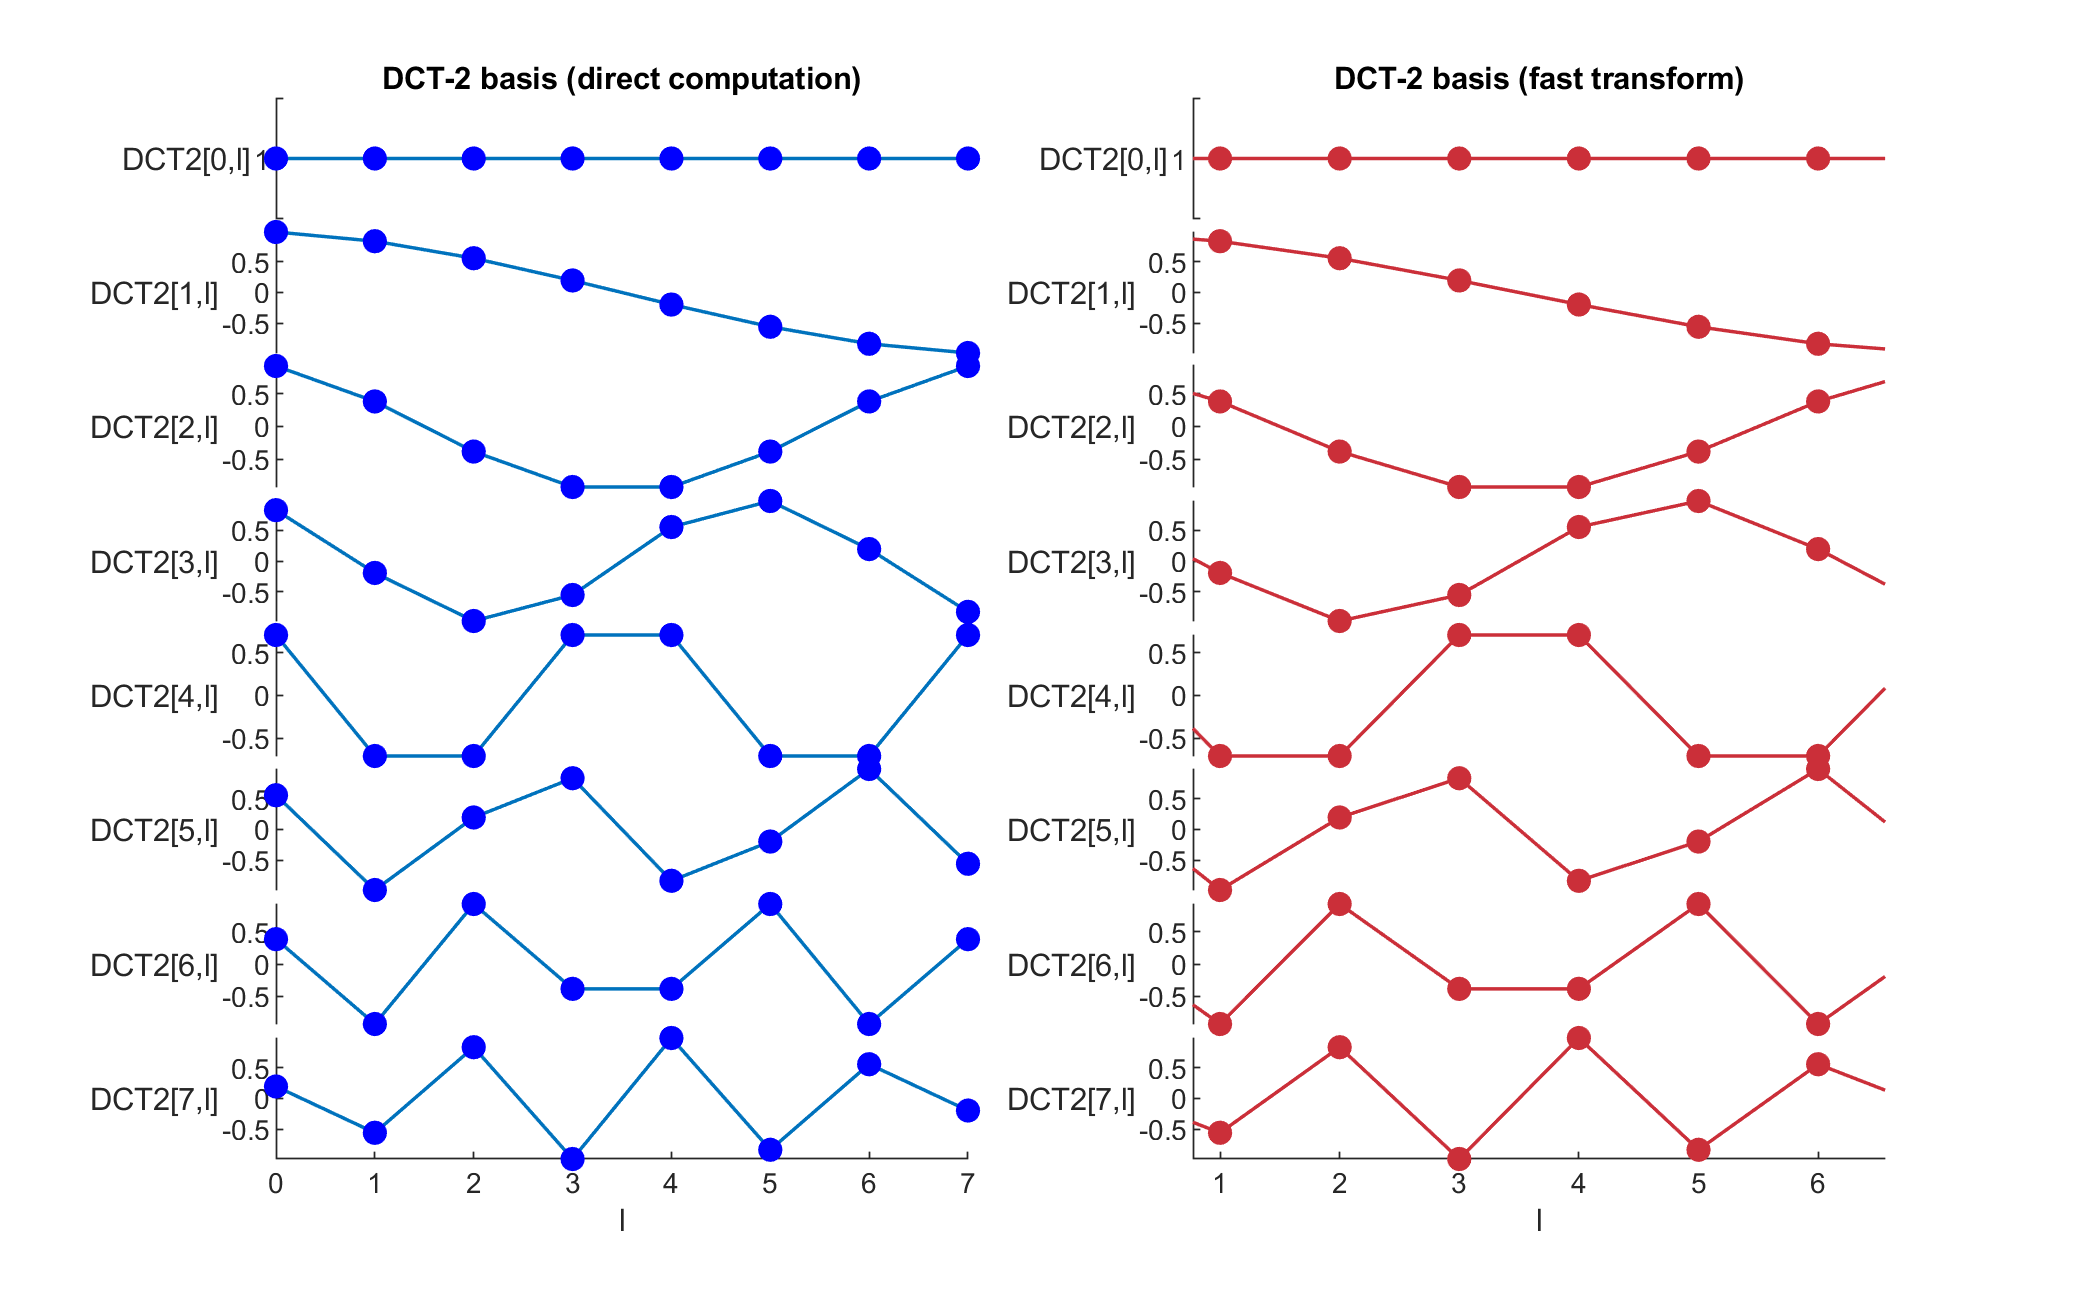
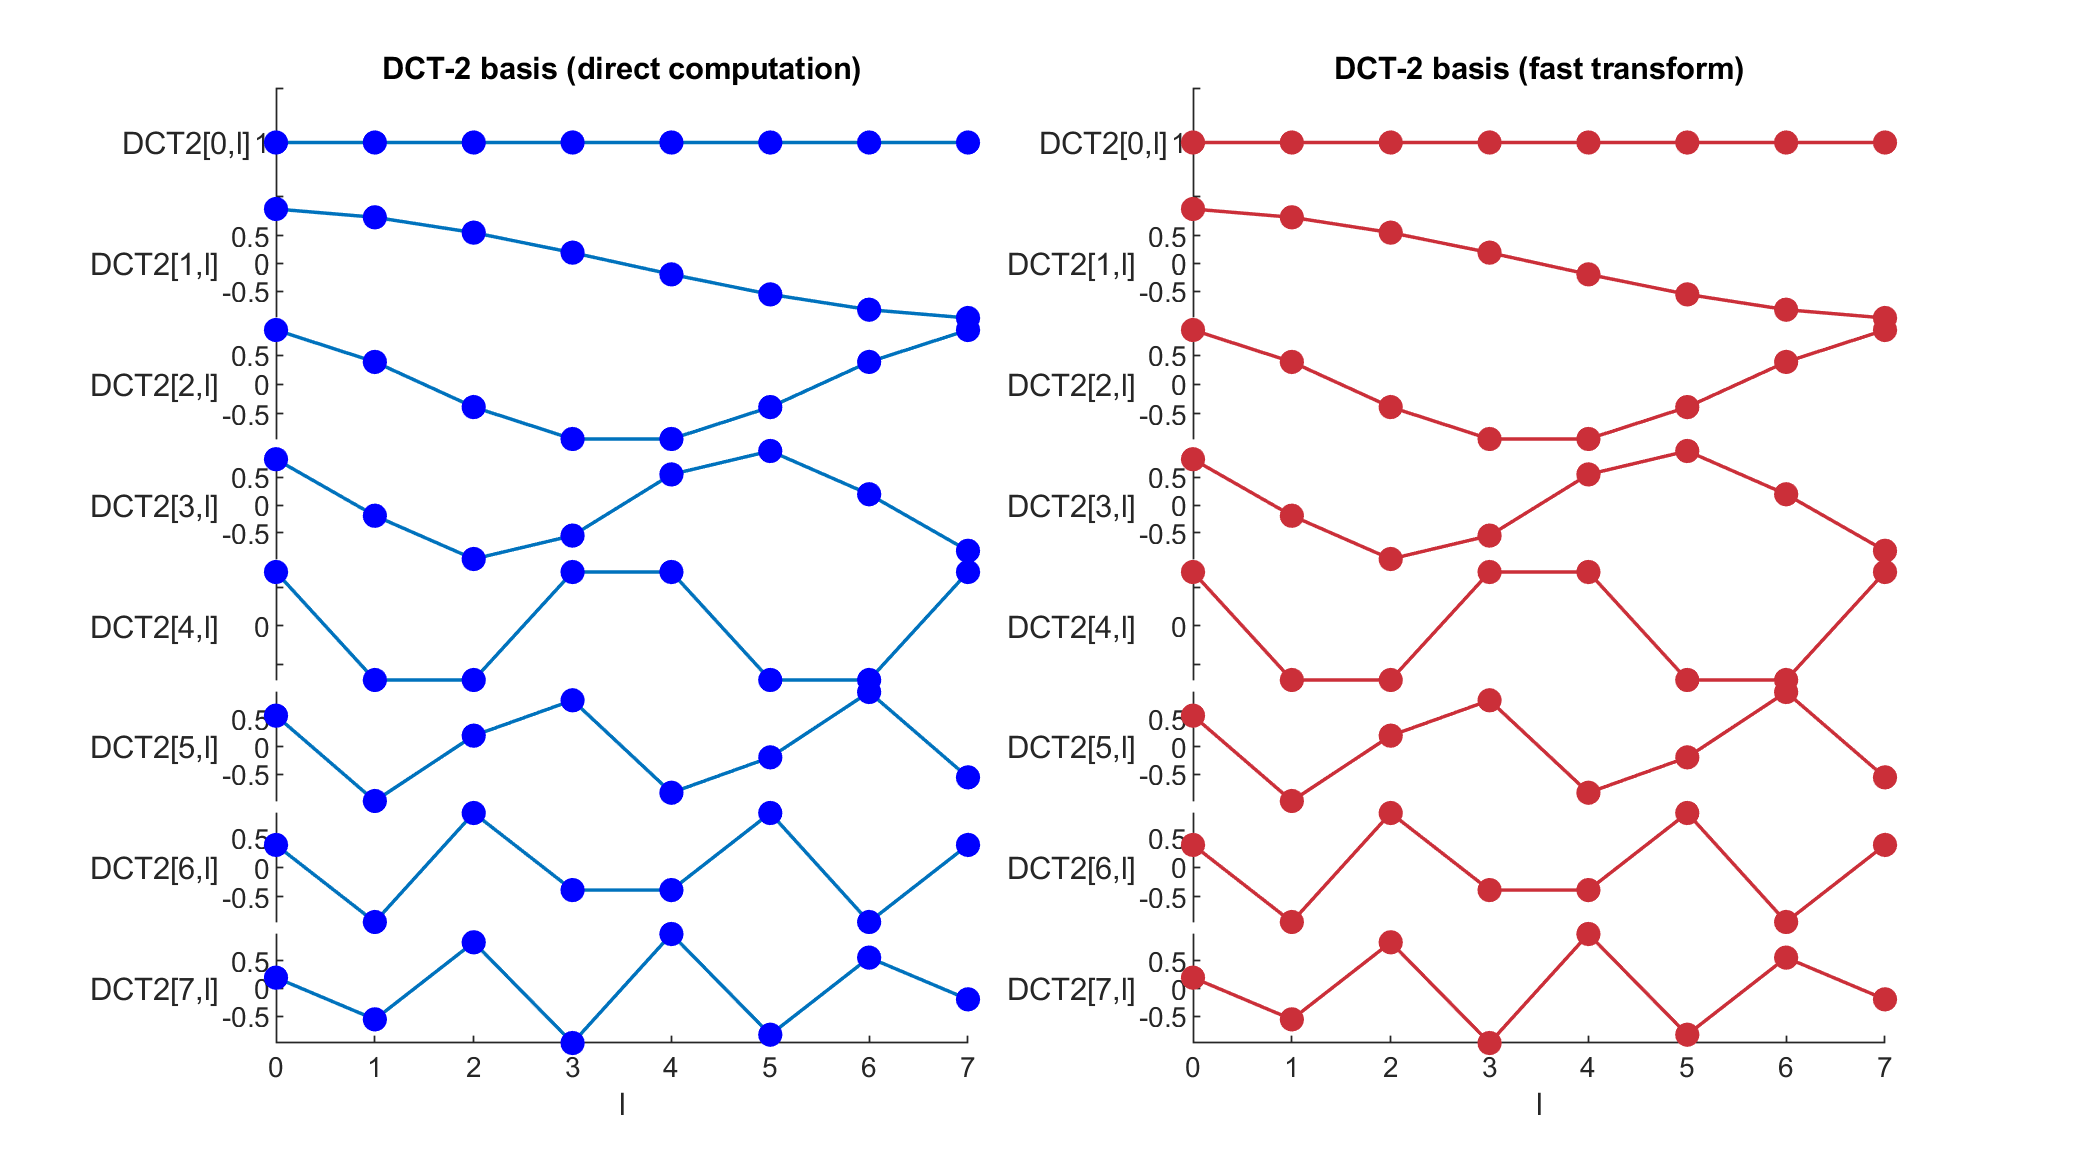
Fig 3 fixed.

diff --git a/matlab/main.m b/matlab/main.m
@@ -35,7 +35,7 @@ for k=1:n
     Ylabels(1,k) = {['DCT2[' num2str(k-1) ',l]']};
 end
 
-figure('Position',[100 100 800 500]);
+figure('Position',[100 100 800 450]);
 subplot(121);
 s = stackedplot(l, DCT2_ref', 'Marker','o','DisplayLabels',Ylabels);
 s.LineWidth = 1;

diff --git a/README.md b/README.md
@@ -26,7 +26,7 @@ Source code is given in the ```matlab``` folder. Here is a brief desciption of t
 
 ### DCT basis generated by the fast algorithm
 <div style="text-align: center;">
-<img src="fig/DCT2_basis.png" width="630"/>
+<img src="fig/DCT2_basis.png" width="580"/>
 </div>
 <p style="text-align: center;"> Fig 3. 8-point DCT-2 basis</p>
 
